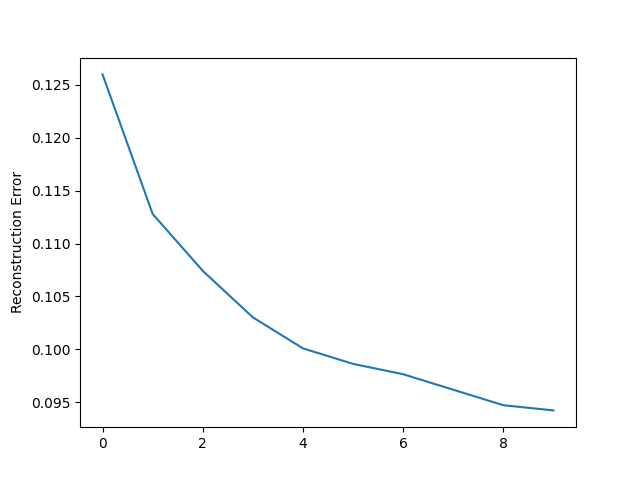
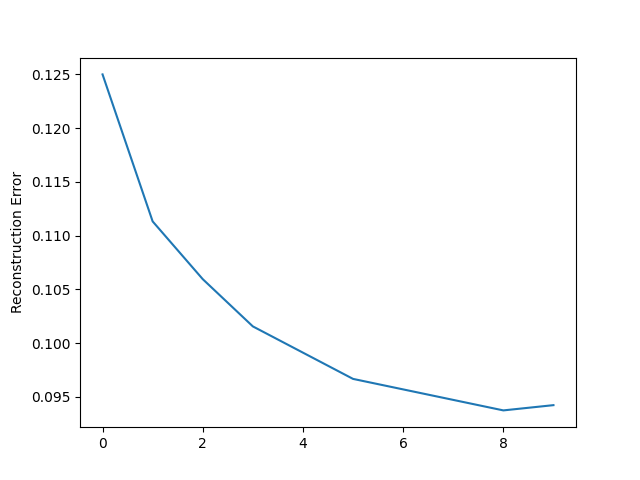
hybrid csr coo

diff --git a/src/sparse-dbm/sparse.py b/src/sparse-dbm/sparse.py
@@ -51,26 +51,11 @@ out[row_tid * n_cols_out + col_tid] = sum;
 masked_correlation_source = """
 // Compute masked correlation: mask * (X.T @ X) / batch_size
 // X is (batch_size, n_features), result is sparse where mask is non-zero
-// mask is in CSR format (mask_row_ptr, mask_cols)
+// mask is in COO format (mask_rows, mask_cols) for efficient element-wise access
 uint tid = thread_position_in_grid.x;
 if (tid >= mask_nnz) return;
 
-// Find which row this element belongs to using row_ptr
-// Binary search to find row: largest i where mask_row_ptr[i] <= tid
-int row_i = 0;
-int left = 0;
-int right = n_features;
-
-while (left < right) {
-    int mid = left + (right - left) / 2;
-    if (mask_row_ptr[mid + 1] <= int(tid)) {
-        left = mid + 1;
-    } else {
-        right = mid;
-    }
-}
-row_i = left;
-
+int row_i = mask_rows[tid];
 int col_j = mask_cols[tid];
 
 bfloat16_t sum = bfloat16_t(0);
@@ -108,7 +93,7 @@ masked_correlation_kernel = mx.fast.metal_kernel(
     name="masked_correlation",
     input_names=[
         "X",
-        "mask_row_ptr",
+        "mask_rows",
         "mask_cols",
         "batch_size",
         "n_features",
@@ -195,7 +180,7 @@ def _sparse_matrix_matmul(
 
 def _masked_correlation(
     X: mx.array,
-    mask_row_ptr: mx.array,
+    mask_rows: mx.array,
     mask_cols: mx.array,
 ) -> mx.array:
     """
@@ -203,7 +188,7 @@ def _masked_correlation(
 
     Args:
         X: Dense matrix of shape (batch_size, n_features)
-        mask_row_ptr: CSR row pointer array for the mask
+        mask_rows: COO row indices for the mask
         mask_cols: Column indices where to compute correlation
 
     Returns:
@@ -217,7 +202,7 @@ def _masked_correlation(
     output_dtype = X.dtype
 
     outputs = masked_correlation_kernel(  # pyright: ignore
-        inputs=[X, mask_row_ptr, mask_cols, batch_size, n_features, mask_nnz],
+        inputs=[X, mask_rows, mask_cols, batch_size, n_features, mask_nnz],
         grid=(mask_nnz.item(), 1, 1),
         threadgroup=(256, 1, 1),
         output_shapes=[(mask_nnz.item(),)],
@@ -229,22 +214,25 @@ def _masked_correlation(
 
 class Matrix:
     """
-    A sparse matrix representation using MLX arrays in CSR (Compressed Sparse Row) format.
+    A sparse matrix representation using MLX arrays in hybrid COO/CSR format.
+    Stores both row indices (COO) and row pointers (CSR) for optimal kernel performance.
     """
 
     def __init__(
         self,
         row_ptr: mx.array,
+        rows: mx.array,
         cols: mx.array,
         data: mx.array,
         shape: tuple,
         dtype: mx.Dtype = mx.bfloat16,
     ):
         """
-        Initialize a sparse matrix in CSR format.
+        Initialize a sparse matrix in hybrid COO/CSR format.
 
         Args:
             row_ptr: CSR row pointer array (size n_rows + 1)
+            rows: COO row indices of non-zero values
             cols: Column indices of non-zero values
             data: The non-zero values of the matrix
             shape: The shape of the matrix (n_rows, n_cols)
@@ -253,6 +241,7 @@ class Matrix:
         self.shape = shape
         self.dtype = dtype
         self.row_ptr = row_ptr.astype(mx.int32)
+        self.rows = rows.astype(mx.int32)
         self.cols = cols.astype(mx.int32)
         self.data = data.astype(dtype)
         self.nnz = data.shape[0]
@@ -283,7 +272,7 @@ def from_dense(dense: mx.array, dtype=None) -> Matrix:
         dtype: Data type (if None, uses dense array's dtype)
 
     Returns:
-        A sparse Matrix object in CSR format
+        A sparse Matrix object in hybrid COO/CSR format
     """
     if dtype is None:
         dtype = dense.dtype
@@ -307,11 +296,13 @@ def from_dense(dense: mx.array, dtype=None) -> Matrix:
         row_ptr[rows[i] + 1] += 1
     np.cumsum(row_ptr, out=row_ptr)
 
+    # Convert to MLX arrays
     row_ptr = mx.array(row_ptr, dtype=mx.int32)
+    rows = mx.array(rows, dtype=mx.int32)  # Keep COO row indices
     cols = mx.array(cols, dtype=mx.int32)
     data = mx.array(data, dtype=dtype)
 
-    return Matrix(row_ptr, cols, data, dense.shape, dtype)
+    return Matrix(row_ptr, rows, cols, data, dense.shape, dtype)
 
 
 def masked_correlation(X: mx.array, mask: Matrix) -> Matrix:
@@ -327,5 +318,5 @@ def masked_correlation(X: mx.array, mask: Matrix) -> Matrix:
     Returns:
         Sparse matrix containing correlation values at mask positions
     """
-    out_data = _masked_correlation(X, mask.row_ptr, mask.cols)
-    return Matrix(mask.row_ptr, mask.cols, out_data, mask.shape, X.dtype)
+    out_data = _masked_correlation(X, mask.rows, mask.cols)
+    return Matrix(mask.row_ptr, mask.rows, mask.cols, out_data, mask.shape, X.dtype)

diff --git a/src/sparse-dbm/sparse_dbm.py b/src/sparse-dbm/sparse_dbm.py
@@ -10,7 +10,8 @@ import sparse
 
 class TrainingState(NamedTuple):
     # Store sparse weights as separate arrays for compile compatibility
-    weight_rows: mx.array
+    weight_row_ptr: mx.array  # CSR row pointers
+    weight_rows: mx.array     # COO row indices
     weight_cols: mx.array
     weight_data: mx.array
     biases: mx.array
@@ -133,11 +134,12 @@ def train_step(
     Perform a single training step with fully sparse operations.
     Uses sparse matrix-vector multiplication in Gibbs sampling and sparse correlation.
     """
-    weight_rows, weight_cols, weight_data, biases, weight_vel_data, biases_vel = state
+    weight_row_ptr, weight_rows, weight_cols, weight_data, biases, weight_vel_data, biases_vel = state
     batch = batch_img + batch_label
 
     # Reconstruct sparse weights
     weights = sparse.Matrix(
+        weight_row_ptr,
         weight_rows,
         weight_cols,
         weight_data,
@@ -148,6 +150,7 @@ def train_step(
     # Reconstruct sparse mask for correlation kernel
     mask_data = mx.ones_like(weight_rows).astype(consts.dtype)
     graph_mask_sparse = sparse.Matrix(
+        weight_row_ptr,
         weight_rows,
         weight_cols,
         mask_data,
@@ -180,6 +183,7 @@ def train_step(
     new_biases = biases + delta_biases
 
     return TrainingState(
+        weight_row_ptr,
         weight_rows,
         weight_cols,
         new_weight_data,
@@ -203,7 +207,8 @@ if __name__ == "__main__":
 
     # Initialize state with sparse weight components
     state = TrainingState(
-        weight_rows=weights_sparse.row_ptr,
+        weight_row_ptr=weights_sparse.row_ptr,
+        weight_rows=weights_sparse.rows,
         weight_cols=weights_sparse.cols,
         weight_data=weights_sparse.data,
         biases=biases,
@@ -231,13 +236,14 @@ if __name__ == "__main__":
                 )
             # reconstruction error on train
             new_weights = sparse.Matrix(
-                    state[0],
-                    state[1],
-                    state[2],
+                    state[0],  # weight_row_ptr
+                    state[1],  # weight_rows
+                    state[2],  # weight_cols
+                    state[3],  # weight_data
                     (consts.num_neurons, consts.num_neurons),
                     consts.dtype,
                 )
-            new_bias = state[3]
+            new_bias = state[4]  # biases
             batch = consts.random_transform_train_imgs[-consts.batch_size:] + \
                 consts.random_transform_train_labels[-consts.batch_size:]
             error = compute_reconstruction_error(

diff --git a/src/sparse-dbm/consts.py b/src/sparse-dbm/consts.py
@@ -8,7 +8,7 @@ epochs = 10
 learning_rate = 0.003
 alpha = 0.6
 batch_size = 256
-sample_iter = 10
+sample_iter = 100
 dtype = mx.bfloat16
 
 with open("coloring.txt", "r") as f:
